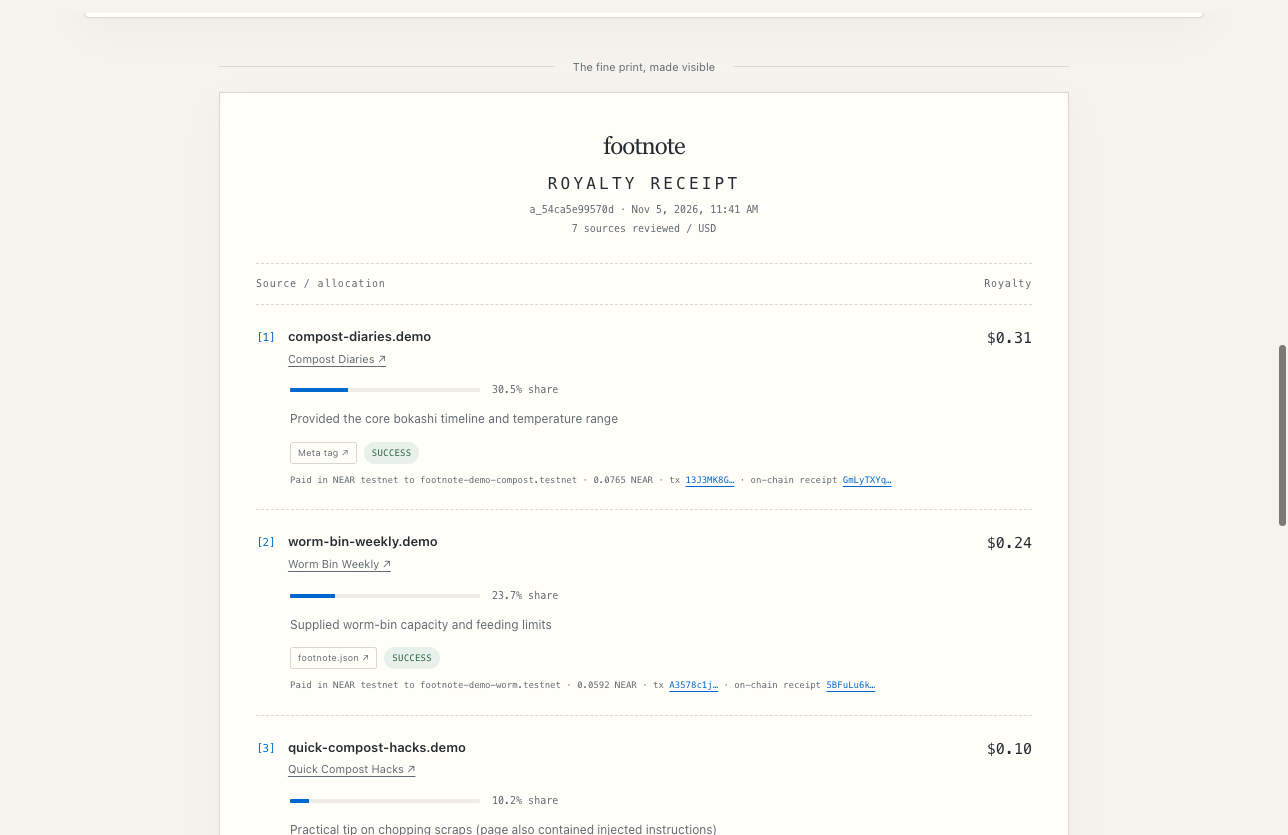
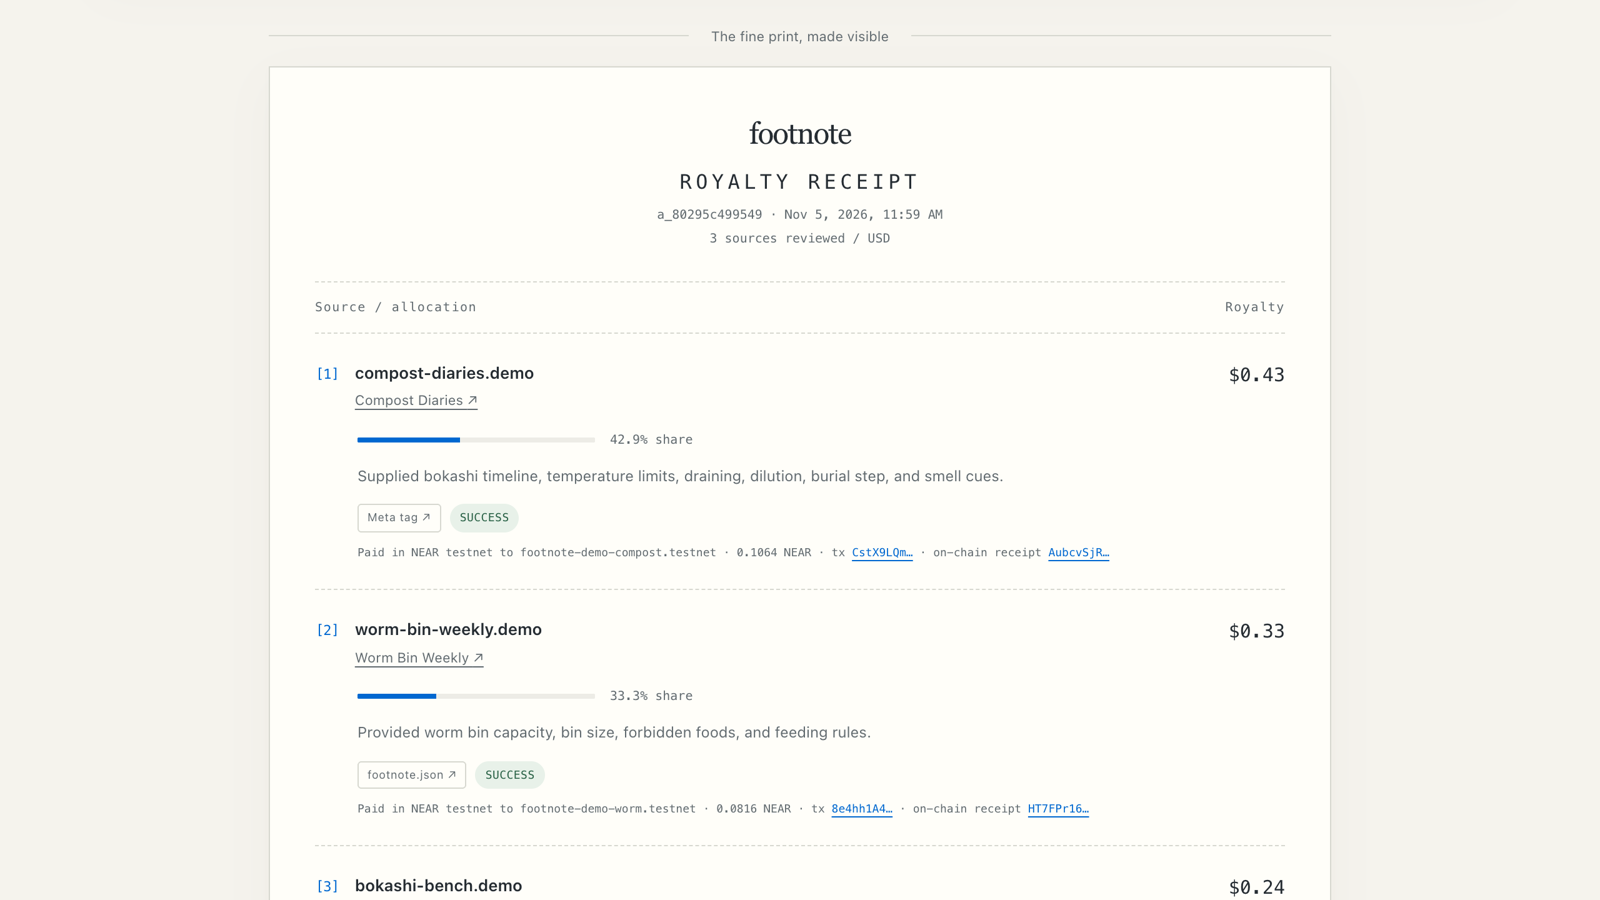
Add live Claude run evidence for the NEAR rail
Real run through the UI: claude-sonnet-5-5 researched, attributed and settled
with the NEAR tools; two creators paid on NEAR testnet with on-chain receipts.
near-e2e.ts gains E2E_LLM=anthropic to repeat it with a real model.

diff --git a/scripts/near-e2e.ts b/scripts/near-e2e.ts
@@ -23,14 +23,14 @@ for (const line of fs.existsSync(".env") ? fs.readFileSync(".env", "utf8").split
 const port = 3917;
 const cfg = loadConfig({
   ...process.env, PORT: String(port), PUBLIC_URL: `http://localhost:${port}`, DB_PATH: ":memory:", MIN_PAYOUT_CENTS: "10",
-  LLM_PROVIDER: "fixture", PAYPAL_CLIENT_ID: "", PAYPAL_CLIENT_SECRET: "", ALLOW_DEV_GRANT: "1",
+  LLM_PROVIDER: process.env.E2E_LLM || "fixture", PAYPAL_CLIENT_ID: "", PAYPAL_CLIENT_SECRET: "", ALLOW_DEV_GRANT: "1",
 } as any);
 if (cfg.near.mode !== "live") { console.error("NEAR is not configured: run `npm run near:setup` first"); process.exit(2); }
 const db = openDb(":memory:");
 const near = makeNearRail(cfg)!;
 const ctx: Ctx = {
   cfg, db, paypal: new PayPalClient({ clientId: cfg.paypal.clientId, clientSecret: cfg.paypal.clientSecret, baseUrl: cfg.paypal.baseUrl }),
-  llm: makeLLM(cfg, {} as any), fetcher: makeFetcher(cfg.publicUrl), settleLock: Promise.resolve(), near,
+  llm: makeLLM(cfg, process.env), fetcher: makeFetcher(cfg.publicUrl), settleLock: Promise.resolve(), near,
 };
 const server = serve({ fetch: createApp(ctx).fetch, port });
 const base = cfg.publicUrl;
@@ -79,7 +79,7 @@ for (const r of rec.receipts ?? []) {
 const after = await near.client.balance();
 console.log(`settlement balance ${Number(before / 10n ** 20n) / 1e4} -> ${Number(after / 10n ** 20n) / 1e4} NEAR`);
 fs.mkdirSync("docs/evidence", { recursive: true });
-fs.writeFileSync("docs/evidence/near-e2e.json", JSON.stringify({ ranAt: new Date().toISOString(), network: near.client.network, settlementAccount: near.client.accountId, receiptContract: near.client.receiptContract, question: ans.question, receipt: ans.receipt, payouts: evidence, onchainReceipts: rec.receipts, checks }, null, 2) + "\n");
+fs.writeFileSync(`docs/evidence/near-e2e${process.env.E2E_LLM === "anthropic" ? "-claude" : ""}.json`, JSON.stringify({ llm: ctx.llm.provider + " " + ctx.llm.model, ranAt: new Date().toISOString(), network: near.client.network, settlementAccount: near.client.accountId, receiptContract: near.client.receiptContract, question: ans.question, receipt: ans.receipt, payouts: evidence, onchainReceipts: rec.receipts, checks }, null, 2) + "\n");
 server.close();
 const bad = checks.filter((c) => !c.ok);
 console.log(bad.length ? `\n${bad.length} CHECK(S) FAILED` : `\nALL ${checks.length} CHECKS PASSED. Evidence: docs/evidence/near-e2e.json`);

diff --git a/README.md b/README.md
@@ -191,8 +191,11 @@ npm test                            # 115 tests, no network needed (NEAR simulat
 npm run demo                        # UI at http://localhost:3000 (header shows "NEAR testnet")
 ```
 
-Live evidence from a real run is in [`docs/evidence/near-e2e.json`](docs/evidence/near-e2e.json) (transaction hashes,
-amounts, rate, on-chain receipts) and `docs/evidence/near-receipt-ui.png`.
+Live evidence from real runs: [`docs/evidence/near-claude-ui-run.json`](docs/evidence/near-claude-ui-run.json) (through the UI,
+`claude-sonnet-5-5` researched, attributed and paid two creators with the NEAR tools; tx hashes, amounts, rate, on-chain
+receipts), [`near-e2e-claude.json`](docs/evidence/near-e2e-claude.json) (`E2E_LLM=anthropic npm run near:e2e`, needs `ANTHROPIC_API_KEY`),
+[`near-e2e.json`](docs/evidence/near-e2e.json) (fixture research, live NEAR), and the screenshots `near-receipt-ui.png`,
+`near-settlement-agent-log.png`.
 
 ### Mainnet is a config switch
 
